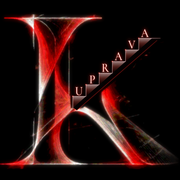
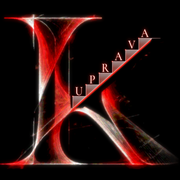
Blend the KUPRAVA staircase into the K: no black band under it
The arm under the staircase was a solid near-black shape, and its top
edge drifted below the stairs' diagonal, so a dark wedge showed between
the steps and the K. The arm is now a sheet of threads like the rest of
the letter, silver along the top turning red and fading into the threads
below, with a soft glow; its top edge runs exactly along the stairs'
diagonal, and the step blocks stay bright down to it. The K images on the
loading screen, About, footer and tab icon are regenerated to match.

Claude-Session: https://claude.ai/code/session_01Gk3TK8zn3Nf2aeoCujnWzf

Changed region(s): [[0.3889, 0.1944, 0.8889, 0.6389]]

diff --git a/src/hero.js b/src/hero.js
@@ -25,10 +25,25 @@ const LETTERS = ['U', 'P', 'R', 'A', 'V', 'A'];
 function drawArm(svg) {
   const k = el('g', { class: 'k' }, svg);
 
-  // arm: a dark band that hides what runs behind it
+  // arm: a sheet of threads like the rest of the K, silver along the top where the
+  // steps catch the light, red beneath, glowing, and see-through like the letter
   const x1 = STEPS.x + STEPS.w * LETTERS.length;
-  el('path', { class: 'arm', d: `M${ARM.x0},${ARM.y0} L${x1},${f1(armY(x1))} L${x1 + 22},${f1(armY(x1))} L${x1 + 18},${f1(armY(x1) + 7)} L${ARM.x0 + 12},${ARM.y0 + 10} Z` }, k);
-  el('path', { class: 'arm-under', d: `M${ARM.x0 + 12},${ARM.y0 + 10} L${x1 + 18},${f1(armY(x1) + 7)}` }, k);
+  const arm = el('g', { class: 'arm' }, k);
+  // wide enough to fill the dark band the reference leaves under the stairs
+  const N = 34, dx0 = -14, dy0 = 22, dx1 = -8, dy1 = 15; // bottom-edge offsets at the start and the end
+  for (let i = 0; i <= N; i++) {
+    const t = i / N;
+    // the top edge runs exactly along the stairs' diagonal, so nothing dark opens up between them
+    const a = [ARM.x0 + dx0 * t, armY(ARM.x0) + dy0 * t], b = [x1 + dx1 * t, armY(x1) + dy1 * t];
+    // silver along the top turning red, then fading into the threads below
+    const r = Math.min(1, t / 0.35);
+    const c = [Math.round(242 + 13 * r), Math.round(234 - 196 * r), Math.round(234 - 208 * r)];
+    const o = t < 0.35 ? 0.6 : 0.6 * (1 - (t - 0.35) / 0.65) ** 1.4 + 0.04;
+    el('line', { x1: f1(a[0]), y1: f1(a[1]), x2: f1(b[0]), y2: f1(b[1]), stroke: `rgb(${c.join(',')})`, 'stroke-opacity': o.toFixed(2) }, arm);
+  }
+  // the same sheet, blurred, for the glow
+  arm.id = 'armSheet';
+  k.insertBefore(el('use', { href: '#armSheet', class: 'arm-glow' }), arm);
 
   // staircase: blocks, treads and the letters of KUPRAVA
   const stairs = el('g', { class: 'stairs' }, svg);
@@ -227,9 +242,9 @@ export function buildHero({ svg, nodesBox, onNavigate, onHover, labels }) {
   layer.after(top);
   el('defs', {}, top).innerHTML = `
     <linearGradient id="stepFace" x1="0" y1="0" x2="0" y2="1">
-      <stop offset="0" stop-color="#f0ecec" stop-opacity="0.6"/>
-      <stop offset="0.45" stop-color="#ff6656" stop-opacity="0.3"/>
-      <stop offset="1" stop-color="#ff1e14" stop-opacity="0"/>
+      <stop offset="0" stop-color="#f4f0f0" stop-opacity="0.62"/>
+      <stop offset="0.55" stop-color="#ff8a7c" stop-opacity="0.55"/>
+      <stop offset="1" stop-color="#ff4a3a" stop-opacity="0.68"/>
     </linearGradient>`;
   drawArm(top);
   drawThreads(layer);

diff --git a/src/style.css b/src/style.css
@@ -145,10 +145,12 @@ body[data-lang='ge'] .sec-title, body[data-lang='jp'] .sec-title { font-size: cl
 .k-glow-wide { filter: blur(calc(var(--u) * 7)) saturate(1.6); opacity: 0.9; }
 .ready .k-layer { animation: kDraw 2.8s cubic-bezier(0.6, 0.05, 0.3, 1) 0.4s forwards; }
 @keyframes kDraw { 30% { opacity: 1; } to { opacity: 1; clip-path: inset(0 0 0 0); } }
-.arm { fill: #040102; opacity: 0; }
+.arm line { stroke-width: 0.8; vector-effect: non-scaling-stroke; }
+.arm, .arm-glow { opacity: 0; }
+.arm-glow { filter: blur(calc(var(--u) * 3)) brightness(1.6); }
 .ready .arm { animation: fadeIn 1.2s 1.4s forwards; }
-.arm-under { fill: none; stroke: rgba(255, 40, 28, 0.7); stroke-width: 0.9; vector-effect: non-scaling-stroke; filter: drop-shadow(0 0 3px rgba(255, 30, 20, 0.7)); opacity: 0; }
-.ready .arm-under { animation: fadeIn 1.2s 1.6s forwards; }
+.ready .arm-glow { animation: armGlow 1.6s 1.6s forwards; }
+@keyframes armGlow { to { opacity: 0.8; } }
 
 .step-face { fill: url(#stepFace); opacity: 0; }
 .ready .step-face { animation: fadeIn 1.4s var(--ease) 2.4s forwards; }
